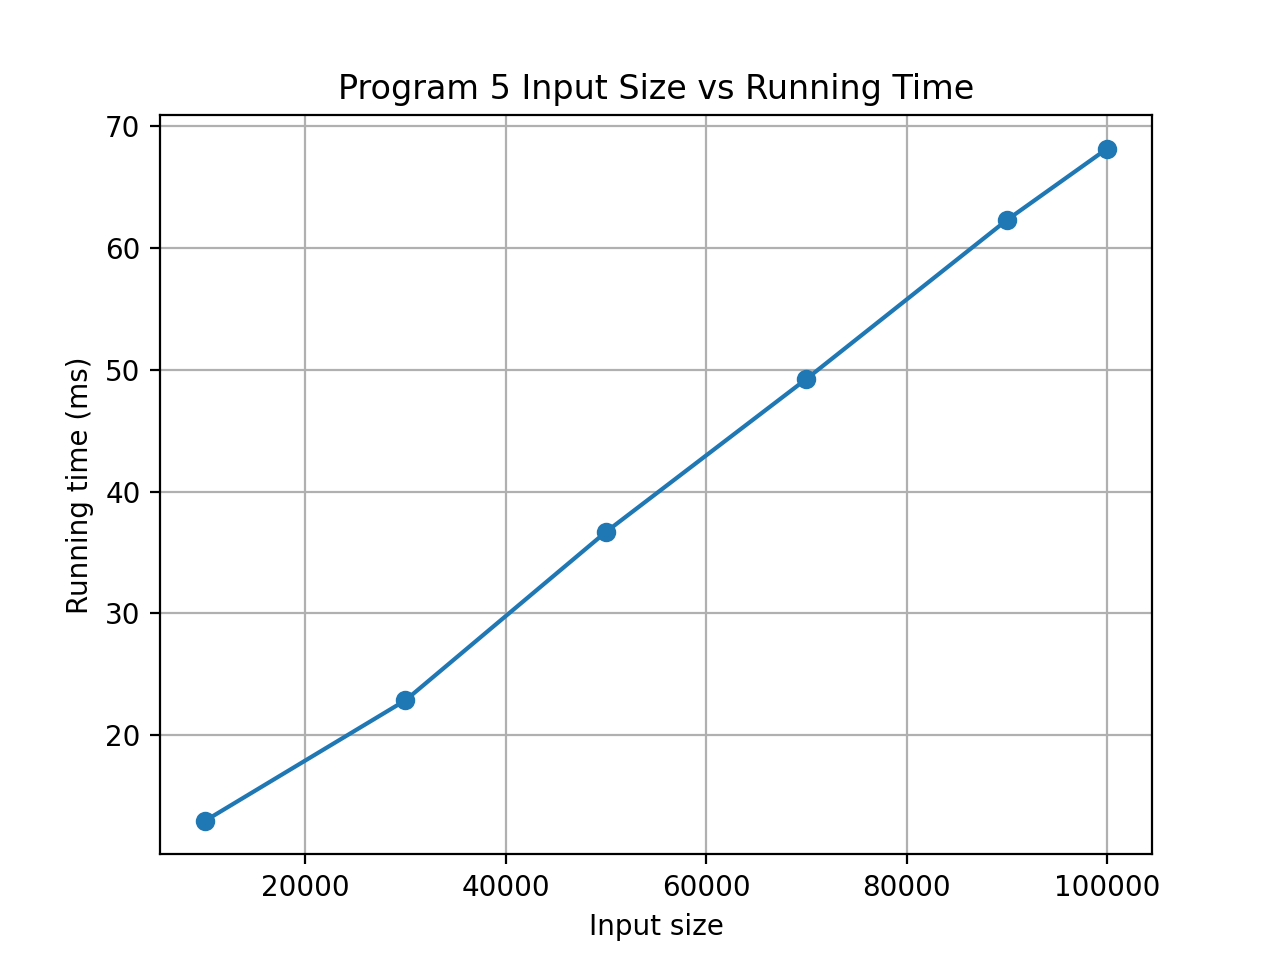
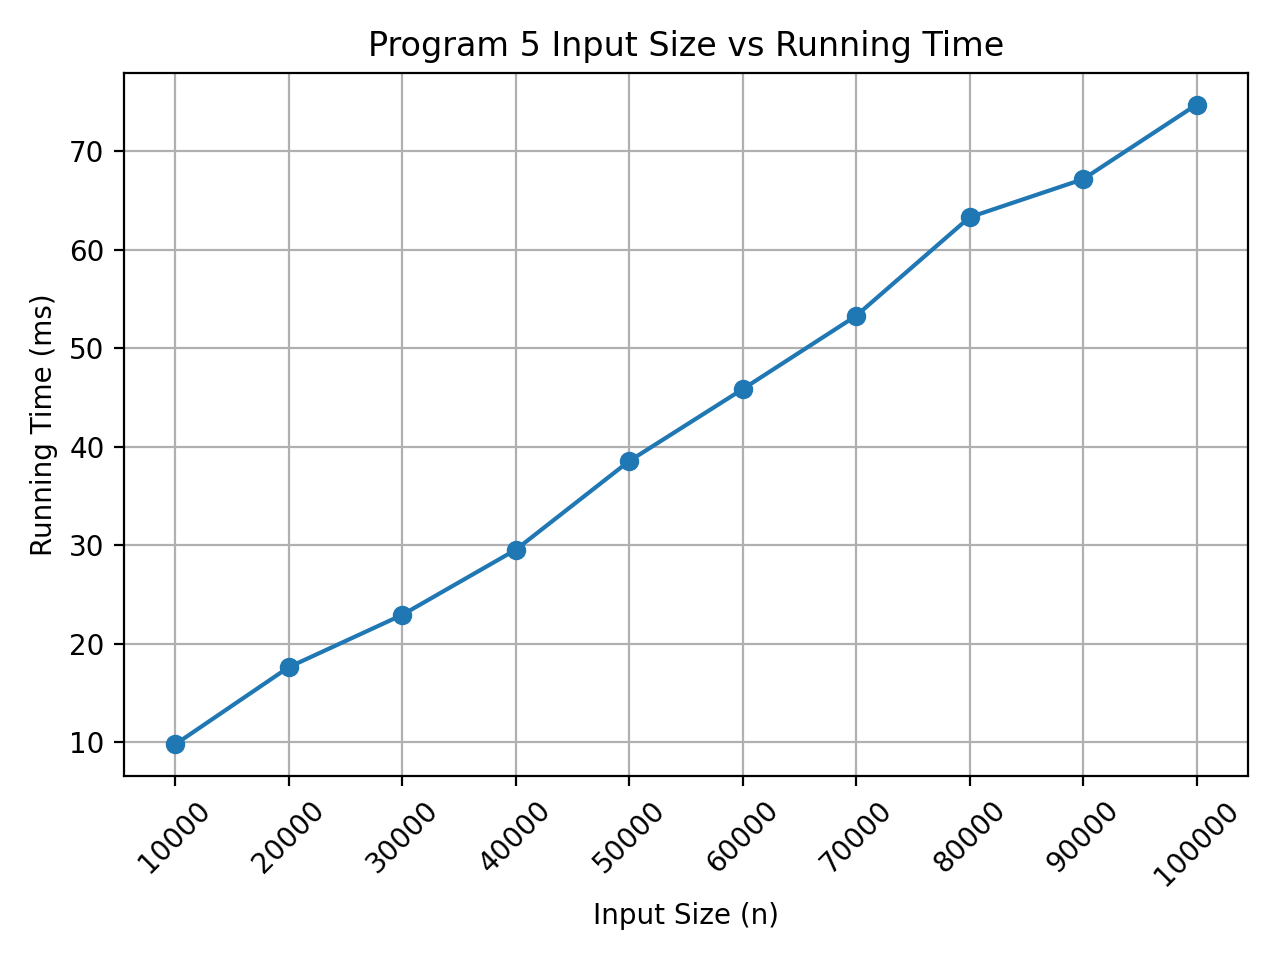
program 5 plotting code updated to have more points

diff --git a/timeProgram5.py b/timeProgram5.py
@@ -1,27 +1,68 @@
+
 import subprocess
 import matplotlib.pyplot as plt
 import time
+import random
+import statistics
 
-SIZE_INPUTS = [10000, 30000, 50000, 70000, 90000, 99999]
+K = 3
+SIZE_INPUTS = list(range(10000, 100001, 10000))
+NUM_RUNS = 7
 timesPerSize = []
 
+random.seed(42)
+
+# Generate input files
+for n in SIZE_INPUTS:
+    with open("input_" + str(n) + ".txt", "w") as file:
+        file.write(str(n) + " " + str(K) + "\n")
+
+        for i in range(n):
+            file.write(str(random.randint(1, 99999)) + "\n")
+
+# Benchmark Program 5
 for n in SIZE_INPUTS:
     timesPerRun = []
-    for attempt in range(3):                       
-        file = open("input_" + str(n) + ".txt")
-        startTime = time.perf_counter()
-        subprocess.run(["./program5"], stdin=file, stdout=subprocess.DEVNULL, check=True)
-        endTime = time.perf_counter()
-        file.close()
-        timesPerRun.append((endTime - startTime) * 1000)
-    timesPerRun.sort()                                
-    timesPerSize.append(timesPerRun[1])               
-    print("n =", n, " time =", round(timesPerRun[1], 1), "ms")
+    filename = "input_" + str(n) + ".txt"
 
+    # Warm-up run (not included in measurements)
+    with open(filename, "r") as file:
+        subprocess.run(
+            ["./program5"],
+            stdin=file,
+            stdout=subprocess.DEVNULL,
+            check=True
+        )
+
+    # Run the program multiple times
+    for attempt in range(NUM_RUNS):
+        with open(filename, "r") as file:
+            startTime = time.perf_counter()
+
+            subprocess.run(
+                ["./program5"],
+                stdin=file,
+                stdout=subprocess.DEVNULL,
+                check=True
+            )
+
+            endTime = time.perf_counter()
+
+        timesPerRun.append((endTime - startTime) * 1000)
+
+    # Use the median running time
+    medianTime = statistics.median(timesPerRun)
+    timesPerSize.append(medianTime)
+
+    print("n =", n, " time =", round(medianTime, 2), "ms")
+
+# Plot results
 plt.plot(SIZE_INPUTS, timesPerSize, marker="o")
-plt.xlabel("Input size")
-plt.ylabel("Running time (ms)")
+plt.xlabel("Input Size (n)")
+plt.ylabel("Running Time (ms)")
 plt.title("Program 5 Input Size vs Running Time")
+plt.xticks(SIZE_INPUTS, rotation=45)
 plt.grid(True)
+plt.tight_layout()
 plt.savefig("plotProgramFive.png", dpi=200)
 plt.show()
